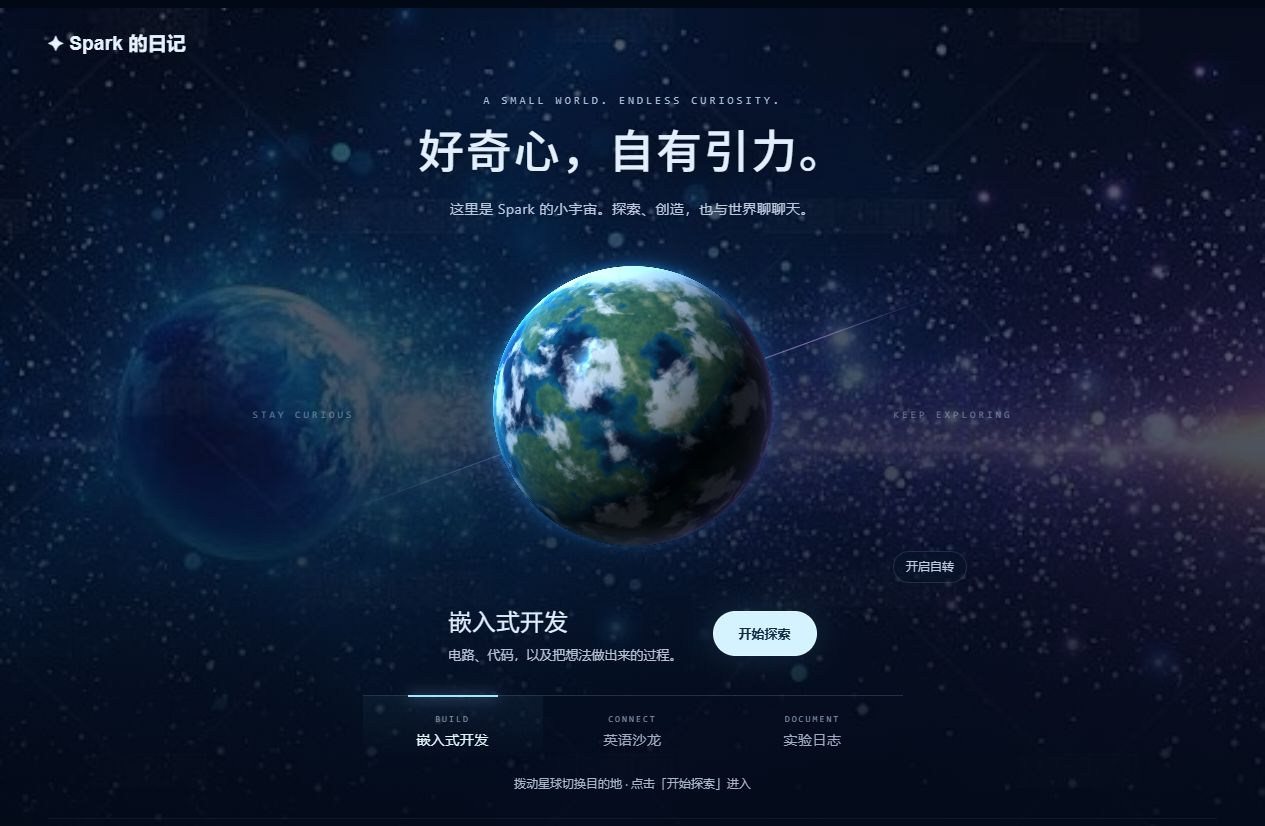
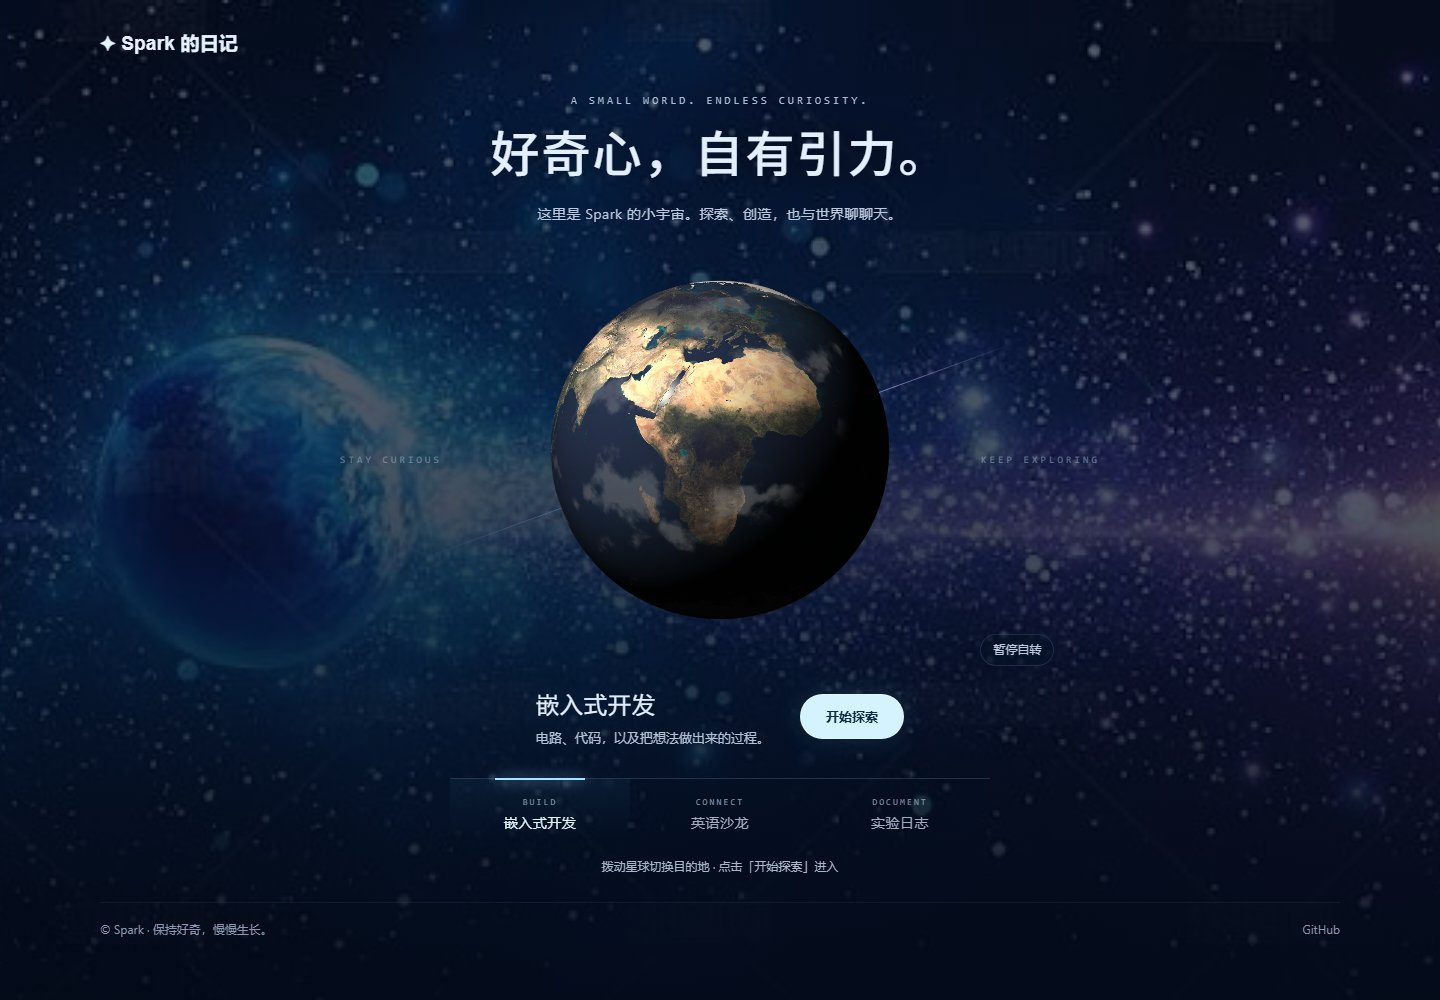
Make the planet realistic and remove the blue halo

diff --git a/planet.js b/planet.js
@@ -52,39 +52,55 @@
       return mix(mix(mix(hash(i),hash(i+vec3(1,0,0)),f.x),mix(hash(i+vec3(0,1,0)),hash(i+vec3(1,1,0)),f.x),f.y),
       mix(mix(hash(i+vec3(0,0,1)),hash(i+vec3(1,0,1)),f.x),mix(hash(i+vec3(0,1,1)),hash(i+vec3(1,1,1)),f.x),f.y),f.z);}
     float fbm(vec3 p){float s=0.,a=.5;for(int i=0;i<5;i++){s+=a*noise(p);p=p*2.03+vec3(7.1,2.7,3.4);a*=.5;}return s;}
+    uniform sampler2D earthTexture;
+    uniform float textureReady;
     vec3 rotateY(vec3 p,float a){return vec3(cos(a)*p.x+sin(a)*p.z,p.y,-sin(a)*p.x+cos(a)*p.z);}
     void main(){
       vec2 uv=(gl_FragCoord.xy-.5*resolution)/min(resolution.x,resolution.y)*2.65;
       float r=length(uv);
       vec3 light=normalize(vec3(-.65,.65,.65));
-      if(r>1.){
-        float glow=exp(-(r-1.)*24.)*.38+exp(-(r-1.)*7.)*.06;
-        float side=.55+.45*dot(normalize(vec3(uv,.2)),light);
-        gl_FragColor=vec4(vec3(.16,.62,1.),glow*side);return;
-      }
-      vec3 n=vec3(uv,sqrt(1.-r*r));
+      if(r>1.){discard;}
+      vec3 n=vec3(uv,sqrt(max(0.,1.-r*r)));
       vec3 p=rotateY(n,rotation);
-      float continents=fbm(p*3.1);
-      float coast=smoothstep(.46,.51,continents);
-      float detail=fbm(p*22.);
-      vec3 ocean=mix(vec3(.015,.065,.17),vec3(.025,.24,.38),smoothstep(.32,.49,continents));
-      vec3 land=mix(vec3(.035,.19,.19),vec3(.24,.40,.30),detail);
-      land=mix(land,vec3(.54,.58,.49),smoothstep(.61,.75,continents));
-      vec3 surface=mix(ocean,land,coast);
-      float polar=smoothstep(.84,.98,abs(p.y)+detail*.08);
-      surface=mix(surface,vec3(.65,.78,.85),polar);
+      float continents=fbm(p*2.7);
+      float detail=fbm(p*10.);
+      float fine=fbm(p*34.);
+      float coast=smoothstep(.475,.51,continents);
+      float depth=smoothstep(.29,.49,continents);
+      float arid=smoothstep(.55,.76,detail)*smoothstep(.12,.5,abs(p.y))*(1.-smoothstep(.78,.92,abs(p.y)));
+      float hx=fbm(p*8.+vec3(.012,0,0))-fbm(p*8.-vec3(.012,0,0));
+      float hy=fbm(p*8.+vec3(0,.012,0))-fbm(p*8.-vec3(0,.012,0));
+      vec3 relief=normalize(n+vec3(hx,hy,0.)*1.15);
+      vec3 ocean=mix(vec3(.004,.02,.06),vec3(.015,.08,.16),depth);
+      vec3 land=mix(vec3(.05,.13,.07),vec3(.16,.25,.12),detail);
+      land=mix(land,vec3(.30,.25,.16),arid*.65);
+      land=mix(land,vec3(.45,.44,.36),smoothstep(.70,.90,detail)*.25);
+      vec3 proceduralSurface=mix(ocean,land,coast);
+      float PI=3.14159265;
+      float lon=atan(p.z,p.x);
+      float lat=asin(clamp(p.y,-1.,1.));
+      vec2 earthUv=vec2(lon/(2.*PI)+.5,.5-lat/PI);
+      vec3 mapped=texture2D(earthTexture,earthUv).rgb;
+      vec3 surface=mix(proceduralSurface,mapped,textureReady);
+      float water=mix(1.-coast,smoothstep(.02,.13,mapped.b-mapped.r),textureReady);
       vec3 cloudP=rotateY(n,rotation*.92+.13);
-      float clouds=smoothstep(.48,.69,fbm(cloudP*6.+fbm(cloudP*3.)*1.4));
-      float diffuse=max(dot(n,light),0.);
-      vec3 color=surface*(.06+diffuse*1.4);
-      color=mix(color,vec3(.78,.88,1.)*(.10+diffuse*1.1),clouds*.88);
-      float spec=pow(max(dot(reflect(-light,n),vec3(0,0,1)),0.),48.);
-      color+=vec3(.4,.72,.9)*spec*(1.-coast)*.7;
-      float rim=pow(1.-n.z,3.5);
-      color+=vec3(.12,.55,1.)*rim*(.15+diffuse*1.7);
-      color+=vec3(.35,.16,.5)*pow(1.-n.z,4.)*max(dot(n,normalize(vec3(.9,-.1,.2))),0.)*.6;
-      color=pow(color,vec3(.86));
-      gl_FragColor=vec4(color,(1.-smoothstep(.995,1.,r)));
+      float clouds=smoothstep(.50,.67,fbm(cloudP*5.+fbm(cloudP*2.3)*.8));
+      float ndl=max(dot(n,light),0.);
+      float reliefNdl=max(dot(relief,light),0.);
+      float lit=mix(mix(ndl,reliefNdl,coast),ndl,textureReady);
+      float day=smoothstep(-.06,.20,dot(n,light));
+      vec3 color=surface*(.012+lit*1.45);
+      color*=.90+.16*fine*coast*(1.-textureReady);
+      float cloudAmount=mix(1.,.32,textureReady);
+      color*=1.-clouds*.20*day*cloudAmount;
+      float spec=pow(max(dot(reflect(-light,n),vec3(0,0,1)),0.),90.);
+      color+=vec3(1.,.95,.85)*spec*water*day*.9;
+      vec3 cloudColor=vec3(.86,.89,.92)*(.03+day*1.08);
+      color=mix(color,cloudColor,clouds*(.55*day+.03)*cloudAmount);
+      color*=1.-pow(1.-n.z,2.)*.20;
+      color*=mix(vec3(1.),vec3(1.06,1.,.92),day);
+      color=pow(max(color,0.),vec3(.9));
+      gl_FragColor=vec4(color,1.-smoothstep(.992,1.,r));
     }`;
   try {
     const compile = (type, source) => {
@@ -101,7 +117,36 @@
     gl.bufferData(gl.ARRAY_BUFFER, new Float32Array([-1,-1,1,-1,-1,1,-1,1,1,-1,1,1]), gl.STATIC_DRAW);
     const position = gl.getAttribLocation(program, 'position'); gl.enableVertexAttribArray(position); gl.vertexAttribPointer(position,2,gl.FLOAT,false,0,0);
     const size = gl.getUniformLocation(program,'resolution'), turn = gl.getUniformLocation(program,'rotation');
-    render = () => { gl.uniform2f(size,canvas.width,canvas.height); gl.uniform1f(turn,angle); gl.drawArrays(gl.TRIANGLES,0,6); };
+    render = () => {
+      gl.clearColor(0,0,0,0);
+      gl.clear(gl.COLOR_BUFFER_BIT);
+      gl.uniform2f(size,canvas.width,canvas.height);
+      gl.uniform1f(turn,angle);
+      gl.drawArrays(gl.TRIANGLES,0,6);
+    };
+    const earthUniform=gl.getUniformLocation(program,'earthTexture');
+    const readyUniform=gl.getUniformLocation(program,'textureReady');
+    const texture=gl.createTexture();
+    gl.activeTexture(gl.TEXTURE0);
+    gl.bindTexture(gl.TEXTURE_2D,texture);
+    gl.texParameteri(gl.TEXTURE_2D,gl.TEXTURE_WRAP_S,gl.REPEAT);
+    gl.texParameteri(gl.TEXTURE_2D,gl.TEXTURE_WRAP_T,gl.CLAMP_TO_EDGE);
+    gl.texParameteri(gl.TEXTURE_2D,gl.TEXTURE_MIN_FILTER,gl.LINEAR);
+    gl.texParameteri(gl.TEXTURE_2D,gl.TEXTURE_MAG_FILTER,gl.LINEAR);
+    gl.texImage2D(gl.TEXTURE_2D,0,gl.RGBA,1,1,0,gl.RGBA,gl.UNSIGNED_BYTE,new Uint8Array([12,24,44,255]));
+    gl.uniform1i(earthUniform,0);
+    gl.uniform1f(readyUniform,0);
+    const earthImage=new Image();
+    earthImage.onload=()=>{
+      gl.activeTexture(gl.TEXTURE0);
+      gl.bindTexture(gl.TEXTURE_2D,texture);
+      gl.pixelStorei(gl.UNPACK_FLIP_Y_WEBGL,false);
+      gl.texImage2D(gl.TEXTURE_2D,0,gl.RGBA,gl.RGBA,gl.UNSIGNED_BYTE,earthImage);
+      gl.texParameteri(gl.TEXTURE_2D,gl.TEXTURE_MIN_FILTER,gl.LINEAR);
+      gl.uniform1f(readyUniform,1);
+      render();
+    };
+    earthImage.src='./assets/earth-blue-marble.jpg';
     const resize = () => {
       const dpr = Math.min(devicePixelRatio || 1,1.5);
       canvas.width = Math.round(canvas.clientWidth*dpr); canvas.height = Math.round(canvas.clientHeight*dpr);

diff --git a/notes/12-深空首页与嵌入式工作台设计.md b/notes/12-深空首页与嵌入式工作台设计.md
@@ -16,7 +16,8 @@
 
 - 四页右上角导航均移除；点击左上角网站名返回首页。
 - 用户星空图存为 assets/spark-space-reference.jpg，原图保持不变，用 CSS 遮罩保证文字可读。
-- 星球使用原生 WebGL 程序绘制虚构地表、海洋、云层、昼夜明暗与蓝紫边缘光，不依赖外部 CDN。
+- 星球使用原生 WebGL + 本地地球贴图 `assets/earth-blue-marble.jpg` 绘制球面、云层、昼夜明暗；去掉了原来的蓝色矩形光晕和蓝紫边缘光，星球外恢复透明，让星空背景透出来。
+- 地球贴图来自 NASA Blue Marble 影像（经 three.js examples 的 `earth_atmos_2048.jpg` 提供），项目内保存为本地文件，不依赖外部 CDN；仅用于个人学习展示。
 - 支持拖动、方向键、目的地按钮，以及暂停自转；减少动态偏好默认关闭自转。WebGL 不可用时显示静态球体，入口仍能使用。
 - 嵌入式主视觉复用既有工作室插画；LED、按键、电位器采用代码绘制的装饰示意，不能当作接线图使用。
 - 项目链接对应仓库原有的 Heartbeat、ButtonLamp、ThresholdMonitor 示例，没有编造已完成的新项目。
